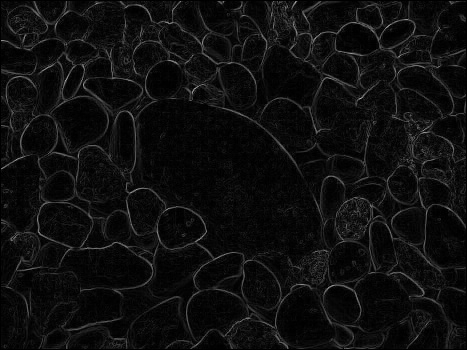
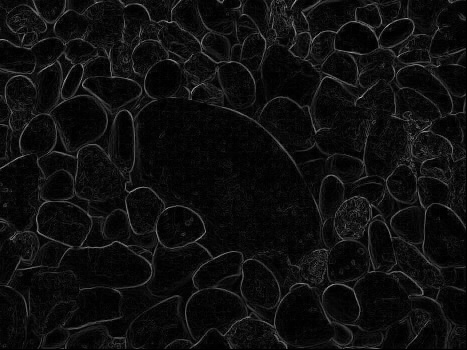
Finish q4 laplacian filter (complete q4)

diff --git a/q4.py b/q4.py
@@ -7,16 +7,28 @@ def GradientFilter(img):
 	N,M=img.shape
 	transformed_img=np.zeros([N,M])
 
-	for row in range(1,N-1):
-		for col in range(1,M-1):
+	for row in range(N-1):
+		for col in range(M-1):
 			#x-dimension
-			Gx=int(img[row][col])-int(img[row-1][col])
+			Gx=int(img[row+1][col])-int(img[row][col])
 			#y-dimension
-			Gy=int(img[row][col])-int(img[row][col-1])
+			Gy=int(img[row][col+1])-int(img[row][col])
 			transformed_img[row][col]=(np.sqrt(Gx**2+Gy**2))
-			#transformed_img[row][col]=Gy	
 
 	return transformed_img
+
+
+def LaplacianFilter(img):
+
+	N,M=img.shape
+	transformed_img=np.zeros([N,M])
+
+	for row in range(N-1):
+		for col in range(M-1):
+			transformed_img[row][col]=int(img[row+1][col])+int(img[row-1][col])+int(img[row][col+1])+int(img[row][col-1])-4*int(img[row][col])
+
+	return transformed_img
+
 
 if __name__=='__main__':
 
@@ -26,3 +38,8 @@ if __name__=='__main__':
 	final1=GradientFilter(img)
 
 	cv2.imwrite('q4_output_gradient.jpg',final1)
+
+	final2=LaplacianFilter(img)
+
+	cv2.imwrite('q4_output_laplacian.jpg',final2)
+
